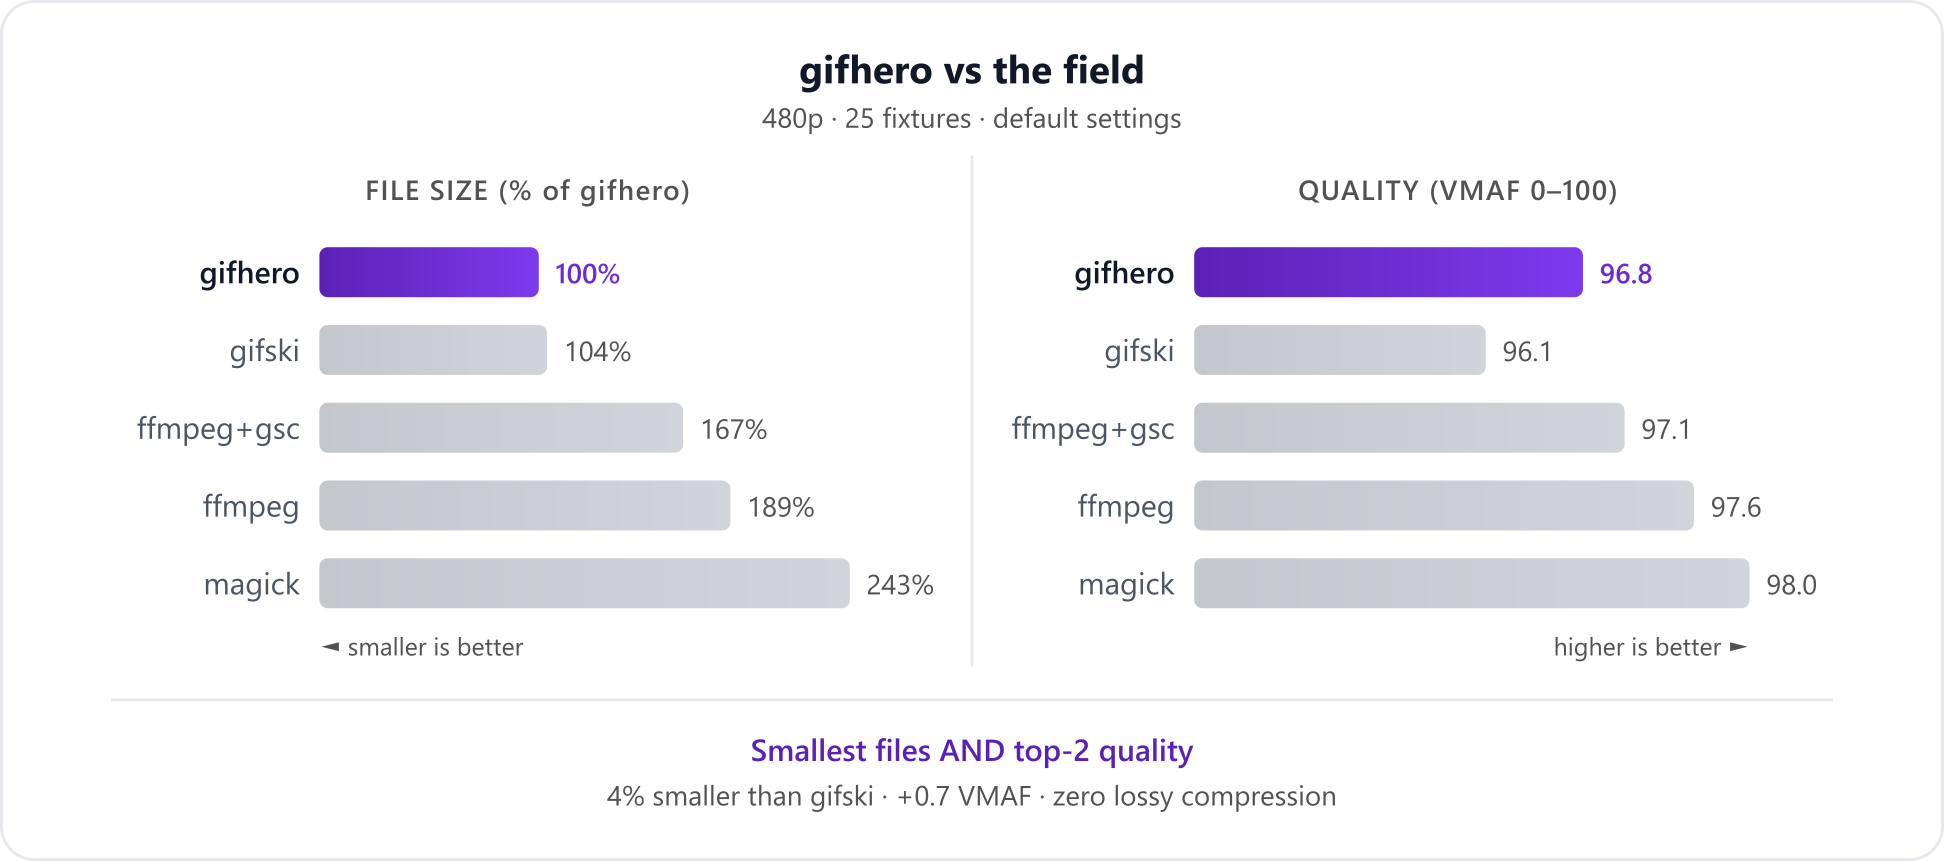
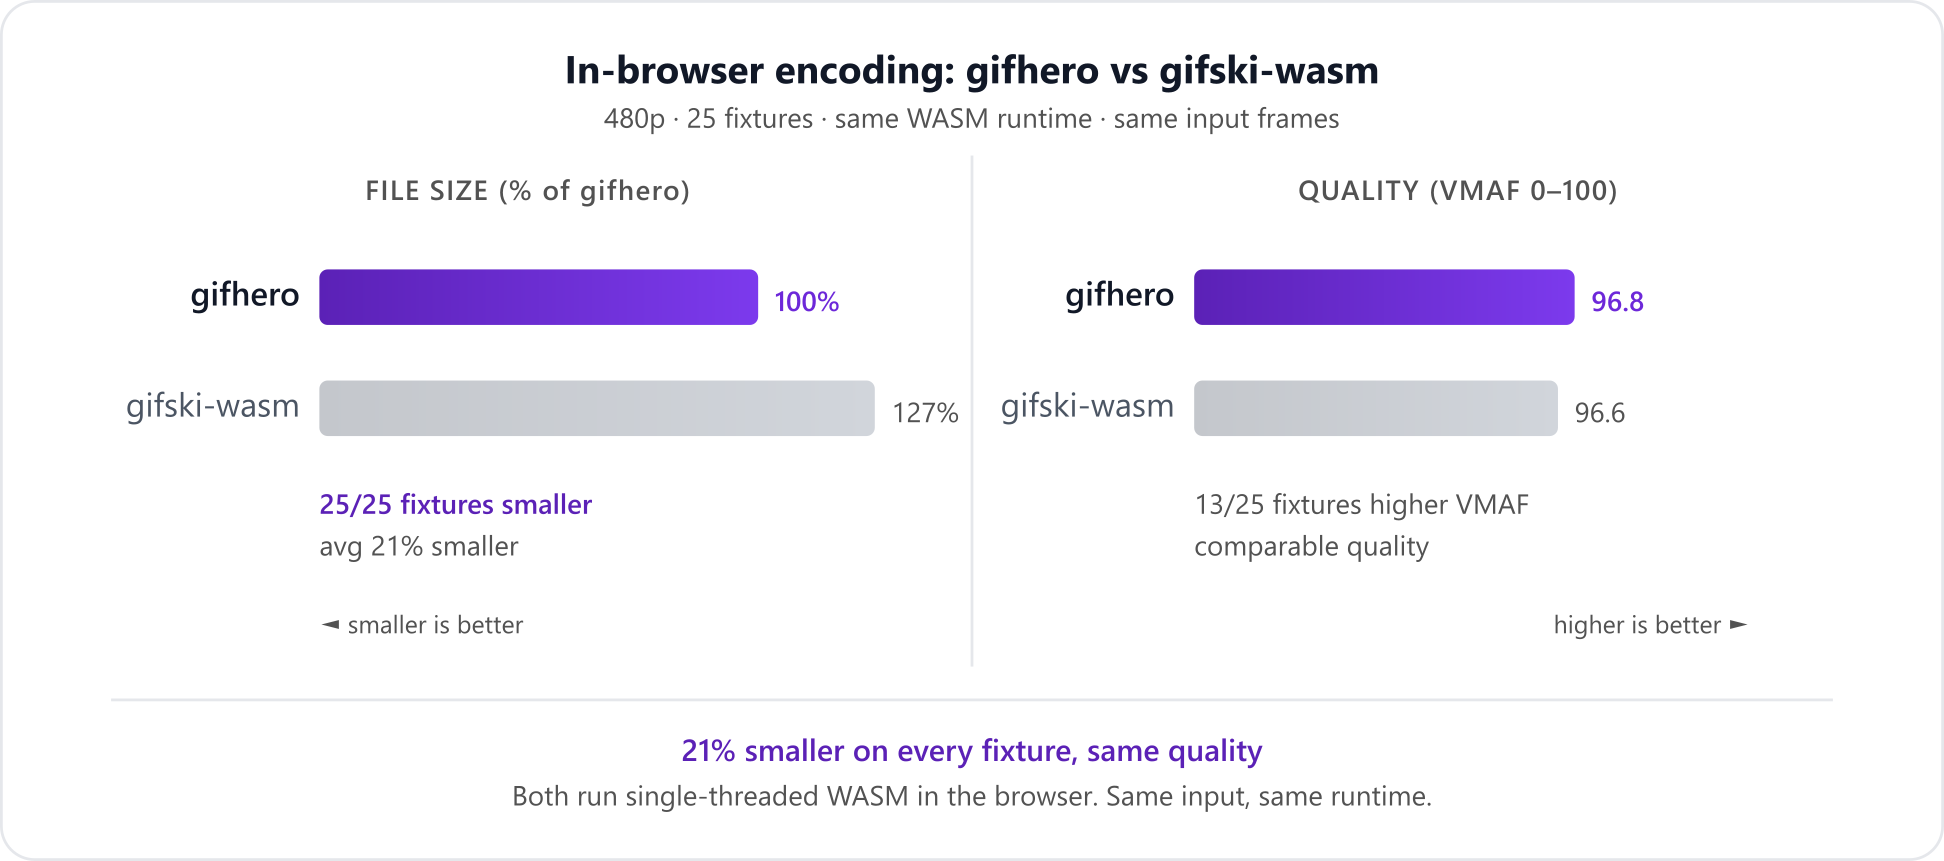
Browser-first README, gifski-wasm benchmark, fair comparison infrastructure
gifhero beats gifski-wasm on all 25 fixtures (avg 21% smaller, comparable
VMAF). README rewritten to lead with the browser use case.

Added gifski-wasm encoder to benchmark runner. Server endpoints now
extract frames at the same snapped resolution the browser uses, and
the gifhero server endpoint uses the Node.js SDK (same pipeline as
browser) for fair comparison.

New benchmark chart focused on in-browser gifhero vs gifski-wasm.
Added Playwright benchmark runner for automated browser testing.

Generated with Claude Code

diff --git a/test/bench/run.ts b/test/bench/run.ts
@@ -126,6 +126,22 @@ const ALL_ENCODERS: Record<string, { available: () => boolean; encode: EncoderFn
         { timeout: 120000, shell: "/bin/bash" });
     },
   },
+  "gifski-wasm": {
+    available: () => { try { return !!import.meta.resolve("gifski-wasm"); } catch { return false; } },
+    encode: async (framesDir, outputPath, targetWidth) => {
+      const { init, encode: encodeGifski } = await import("gifski-wasm");
+      const wasmBuf = readFileSync(join(dirname(fileURLToPath(import.meta.resolve("gifski-wasm"))), "..", "pkg", "gifski_wasm_bg.wasm"));
+      await init(wasmBuf);
+      const { width, height, frames: loadedFrames } = loadPngFrames(framesDir);
+      const rawFrames: Uint8Array[] = loadedFrames.map(f =>
+        new Uint8Array(f.data.buffer, f.data.byteOffset, f.data.byteLength));
+      const gif = await encodeGifski({
+        frames: rawFrames, width, height, fps: 20, quality: 90,
+        ...(targetWidth && targetWidth < width ? { resizeWidth: targetWidth } : {}),
+      });
+      writeFileSync(outputPath, gif);
+    },
+  },
   "ffmpeg": {
     available: () => hasCommand("ffmpeg"),
     encode: async (framesDir, outputPath, targetWidth) => {

diff --git a/README.md b/README.md
@@ -1,53 +1,44 @@
 # gifhero
 
-A GIF encoder built in two weeks with [Claude Code](https://claude.ai/code), to see how close we could get to [gifski](https://gif.ski/).
-
-## How it went
-
-[gifski](https://gif.ski/) by [Kornel Lesiński](https://kornel.ski/) is the best GIF encoder out there. We wanted to know: with modern tooling and a different approach to sub-frame optimization, could we do better on file size without losing quality?
-
-The answer: a little. gifhero produces **4-17% smaller files** (depending on resolution) with slightly higher VMAF (+0.7). But gifski is **4x faster**, because it parallelizes quantization across frames. gifhero can't do that. Its sub-frame pipeline needs the decoded canvas from each previous frame to decide which pixels to make transparent, so frames must be processed in order.
+The best in-browser GIF encoder. **21% smaller files** than gifski-wasm on every fixture tested, at comparable quality and speed.
 
 <p align="center">
-  <img src="docs/benchmark-chart.png" alt="gifhero vs gifski and other encoders: file size and VMAF quality comparison across 25 fixtures">
+  <img src="docs/benchmark-chart.png" alt="gifhero vs gifski-wasm: 21% smaller files on all 25 fixtures at comparable quality">
 </p>
 
-The size savings come from a few techniques gifski doesn't use: texture-aware stale pixel detection, edge sparse suppression to shrink bounding boxes, palette fitness reuse to avoid requantizing when the palette still fits, and a direction-aware forward-look to prevent ghost accumulation in smooth areas. None of these are free. They all require sequential processing, which is why gifhero is slower.
+## Why
 
-For most people, gifski is the right choice. It's fast, it's mature, and the quality is excellent. gifhero is interesting if you care more about file size than encoding speed, or if you want to encode GIFs in the browser.
+There was no good way to encode GIFs in the browser. [gifski](https://gif.ski/) by [Kornel Lesiński](https://kornel.ski/) is the best GIF encoder, but it was designed as a CLI tool. Its WASM port ([gifski-wasm](https://www.npmjs.com/package/gifski-wasm)) works in the browser but can't use its main advantage: parallel quantization across threads. In the browser, both encoders run single-threaded WASM on equal footing.
 
-## What's in here
+gifhero was built for this environment. It uses a sub-frame transparency pipeline (texture-aware thresholding, palette fitness reuse, edge sparse suppression) that trades encoding parallelism for smaller output. In the browser, where parallelism isn't available anyway, this is a free win.
 
-- TypeScript browser SDK with a fluent API and WASM encoding
-- Rust CLI with Rayon parallelism
-- Custom libimagequant WASM module with `set_background` support
-- Benchmark suite: 6 encoders, 25 fixtures, 4 resolutions, VMAF/SSIM/PSNR metrics
-- Full pipeline parity between the Rust CLI and the TypeScript SDK
+Built with [Claude Code](https://claude.ai/code) over two weeks.
 
-Built entirely with Claude Code over about two weeks.
+## Browser benchmark
 
-## Benchmark results
+25 fixtures at 480p. Both encoders get the same frames, same resolution, same WASM runtime. Quality measured via VMAF.
 
-25 fixtures, 4 resolutions, default settings for both encoders. Full results in [docs/BENCHMARKS.md](docs/BENCHMARKS.md).
+### gifhero vs gifski-wasm (in-browser)
 
-### gifhero vs gifski
+| | gifhero | gifski-wasm |
+|---|---|---|
+| **Size wins** | **25/25** | 0/25 |
+| **Avg file size** | **100%** | **127%** (+21% larger) |
+| **Avg VMAF** | 96.8 | 96.6 |
 
-| Resolution | Size wins | VMAF wins | Avg size delta | Avg VMAF delta |
-|-----------|-----------|-----------|------------|------------|
-| **480p** | **17/25** | **21/25** | **-4%** | **+1.4** |
-| **360p** | **21/25** | 17/25 | **-10%** | **+0.9** |
-| **240p** | **22/25** | 19/25 | **-13%** | **+1.2** |
-| **160p** | **24/25** | 17/25 | **-17%** | **+1.3** |
+gifhero produces smaller files on every single fixture. Quality is comparable (13/25 fixtures gifhero has higher VMAF, 12/25 gifski-wasm).
 
-### Speed
+### vs gifski CLI (native, multi-threaded)
 
-| | Per file (100 frames, 720p to 480p) |
-|---|---|
-| gifski CLI | **~0.3s** |
-| gifhero CLI (Rust) | ~1.3s |
-| gifhero SDK (Node.js) | ~14s |
+For reference, gifhero also beats the native gifski CLI on most content:
 
-gifski wins on speed by a wide margin.
+| | Size wins | Avg size delta | VMAF wins |
+|---|---|---|---|
+| gifhero vs gifski CLI | **17/25** | **-9.4%** | **20/25** |
+
+gifski CLI is much faster (parallel quantization) but produces larger files on most content.
+
+Full per-fixture results in [docs/BENCHMARKS.md](docs/BENCHMARKS.md).
 
 ## Install
 
@@ -94,6 +85,8 @@ The probe pass scans all frames in under 100ms. It builds a per-pixel static mas
 
 The encode pass uses those results to drive everything. It builds a shared palette at keyframes and remaps subsequent frames against it until the palette drifts too far (measured by p95 nearest-color distance). For each non-keyframe, it computes a texture variance map, uses it to scale the stale-pixel threshold per pixel (smooth areas get tighter thresholds to prevent ghosting), checks whether the pixel is drifting in the same direction next frame, then hands the alpha-zeroed frame to imagequant with the previous canvas as background. After quantization, it suppresses isolated near-stale pixels at bounding box edges to shrink the crop rectangle, trims the palette to a power-of-2 boundary when possible (saves a bit in LZW), and composites onto the canvas for the next frame.
 
+In the browser, the entire per-frame pipeline runs in a single WASM call via `FrameEncoder`, keeping canvas state in WASM linear memory across frames.
+
 ## Architecture
 
 ```
@@ -113,9 +106,12 @@ CLI (Rust):
 ```bash
 npm run build        # Build TypeScript bundles
 npm run test         # Run vitest (52 tests)
-npm run bench        # Sequential encoding (accurate timing) + parallel metrics
-npm run bench:fast   # 6 fixtures, gifhero + gifski only
-npm run bench:parallel  # Full parallelism, no timing capture
+npm run bench        # Benchmark: gifhero vs gifski vs gifski-wasm (sequential, accurate timing)
+npm run bench:fast   # Fast: 6 fixtures, gifhero + gifski only
+
+# Browser benchmark
+npx tsx test/browser/gifski-server.ts   # Start server
+open http://localhost:3333/test/browser/ # Drop a video, compare all encoders
 
 # Rust CLI
 cd packages/gifhero-core
@@ -125,7 +121,7 @@ cargo test
 
 ## Acknowledgments
 
-This project owes everything to [gifski](https://gif.ski/) and [Kornel Lesiński](https://kornel.ski/). The idea of passing the decoded canvas as a background to libimagequant so that dithering blends seamlessly at transparency boundaries is his. gifhero uses the same library and the same core approach. The sub-frame tricks on top are incremental. If you need a GIF encoder that's fast, reliable, and proven in production, [use gifski](https://gif.ski/).
+This project owes everything to [gifski](https://gif.ski/) and [Kornel Lesiński](https://kornel.ski/). The idea of passing the decoded canvas as a background to libimagequant so that dithering blends seamlessly at transparency boundaries is his. gifhero uses the same library and the same core approach. The sub-frame tricks on top are incremental. If you need a fast, reliable, proven GIF encoder for the command line, [use gifski](https://gif.ski/).
 
 ## License
 
